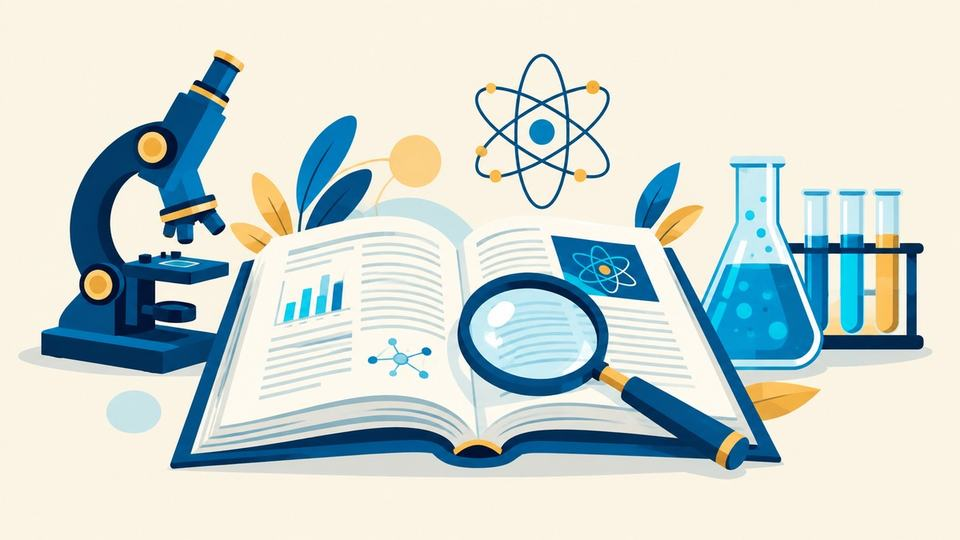
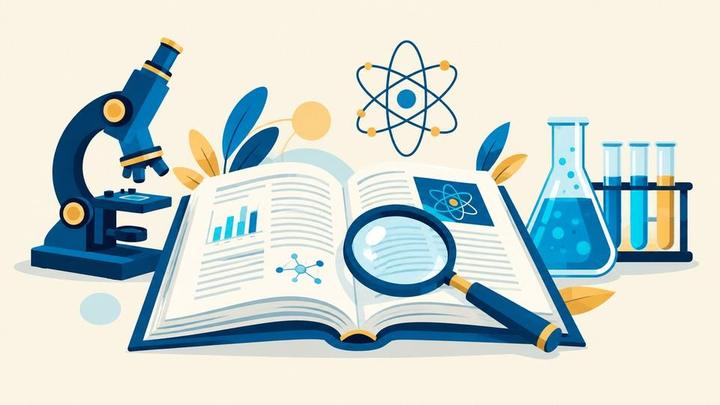
Speed: skip panel fetch on preview hosts, smaller imagesCo-Authored-By: Claude Sonnet 5.5 <noreply@anthropic.com>Claude-Session: https://claude.ai/code/session_01JutdUp2d1iu1XaFc2tD65U

diff --git a/public/cms.js b/public/cms.js
@@ -57,6 +57,9 @@
   } catch (e) {}
 
   if (!window.fetch) return;
+  // The free preview hosts (Cloudflare, Netlify, GitHub Pages) have no panel backend, so asking them
+  // would only log a 404 in the browser console. Skip the request there.
+  if (/\.(workers\.dev|pages\.dev|netlify\.app|github\.io)$/i.test(location.hostname)) return;
   fetch('/cms-api/data/content.json', { cache: 'no-cache', credentials: 'omit' })
     .then(function (r) { return r.ok ? r.json() : null; })
     .then(function (d) {
